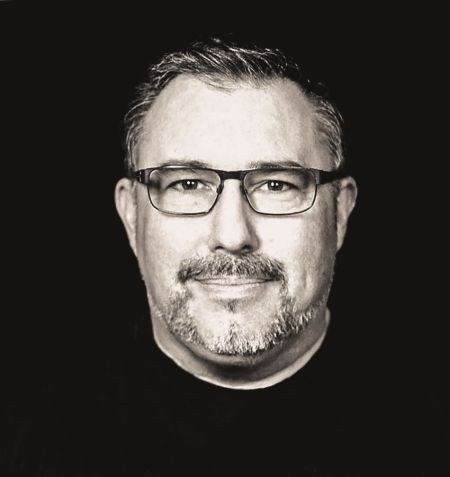
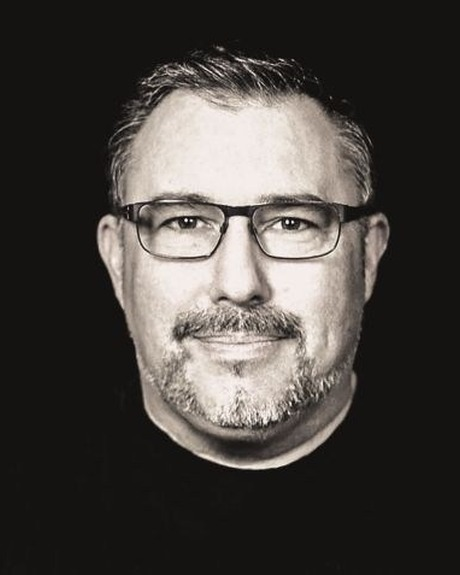
mise à jours

Changed region(s): [[0.1867, 0.0587, 0.8711, 0.8218]]

diff --git a/equipe.html b/equipe.html
@@ -8,7 +8,7 @@
 <link href="https://fonts.googleapis.com" rel="preconnect"/>
 <link crossorigin="" href="https://fonts.gstatic.com" rel="preconnect"/>
 <link href="https://fonts.googleapis.com/css2?family=Cormorant+Garamond:ital,wght@0,500;0,600;1,500&amp;family=Outfit:wght@300;400;500;600&amp;display=swap" rel="stylesheet"/>
-<link href="css/style.css?v=37" rel="stylesheet"/>
+<link href="css/style.css?v=37-equipe" rel="stylesheet"/>
 <meta content="Un staff engagé au service des organisations, des profils atypiques et de la qualité des accompagnements." name="description"/><meta content="index,follow,max-image-preview:large,max-snippet:-1,max-video-preview:-1" name="robots"/>
 <!-- V22 social metadata -->
 <link href="favicon.ico" rel="icon" sizes="any"/>
@@ -40,7 +40,21 @@
 <meta content="https://www.hpitalents.com/assets/social/og-hpitalents.jpg" name="twitter:image"/>
 <meta content="HPI Talents - Révéler et accompagner les potentiels des adultes atypiques et hors normes." name="twitter:image:alt"/>
 <!-- /V22 social metadata -->
-<script type="application/ld+json">{"@context":"https://schema.org","@type":["Organization","ProfessionalService"],"@id":"https://www.hpitalents.com/#organization","name":"HPI Talents","alternateName":"HPI Talents by AFM Développement","url":"https://www.hpitalents.com/","logo":"https://www.hpitalents.com/assets/conferences/logo-hpi-talents.png","email":"contact@hpitalents.com","address":{"@type":"PostalAddress","streetAddress":"115 Avenue Jean Jaurès","postalCode":"33600","addressLocality":"Pessac","addressCountry":"FR"},"foundingDate":"2005","sameAs":["https://www.facebook.com/hpitalents/","https://www.youtube.com/@fabricemicheau","https://www.linkedin.com/company/hpitalents","https://www.instagram.com/fabricemicheau/","https://www.tiktok.com/@fabricemicheau"]}</script><script type="application/ld+json">{"@context":"https://schema.org","@type":"WebSite","@id":"https://www.hpitalents.com/#website","url":"https://www.hpitalents.com/","name":"HPI Talents","publisher":{"@id":"https://www.hpitalents.com/#organization"},"inLanguage":"fr-FR"}</script><script type="application/ld+json">{"@context":"https://schema.org","@type":"WebPage","@id":"https://www.hpitalents.com/equipe.html#webpage","url":"https://www.hpitalents.com/equipe.html","name":"Équipe HPI Talents | Experts douance et transformation","description":"Un staff engagé au service des organisations, des profils atypiques et de la qualité des accompagnements.","isPartOf":{"@id":"https://www.hpitalents.com/#website"},"about":{"@id":"https://www.hpitalents.com/#organization"},"inLanguage":"fr-FR"}</script><script type="application/ld+json">{"@context":"https://schema.org","@type":"BreadcrumbList","itemListElement":[{"@type":"ListItem","position":1,"name":"Accueil","item":"https://www.hpitalents.com/"},{"@type":"ListItem","position":2,"name":"À propos","item":"https://www.hpitalents.com/a-propos.html"},{"@type":"ListItem","position":3,"name":"L'équipe HPI Talents","item":"https://www.hpitalents.com/equipe.html"}]}</script></head>
+<script type="application/ld+json">{"@context":"https://schema.org","@type":["Organization","ProfessionalService"],"@id":"https://www.hpitalents.com/#organization","name":"HPI Talents","alternateName":"HPI Talents by AFM Développement","url":"https://www.hpitalents.com/","logo":"https://www.hpitalents.com/assets/conferences/logo-hpi-talents.png","email":"contact@hpitalents.com","address":{"@type":"PostalAddress","streetAddress":"115 Avenue Jean Jaurès","postalCode":"33600","addressLocality":"Pessac","addressCountry":"FR"},"foundingDate":"2005","sameAs":["https://www.facebook.com/hpitalents/","https://www.youtube.com/@fabricemicheau","https://www.linkedin.com/company/hpitalents","https://www.instagram.com/fabricemicheau/","https://www.tiktok.com/@fabricemicheau"]}</script><script type="application/ld+json">{"@context":"https://schema.org","@type":"WebSite","@id":"https://www.hpitalents.com/#website","url":"https://www.hpitalents.com/","name":"HPI Talents","publisher":{"@id":"https://www.hpitalents.com/#organization"},"inLanguage":"fr-FR"}</script><script type="application/ld+json">{"@context":"https://schema.org","@type":"WebPage","@id":"https://www.hpitalents.com/equipe.html#webpage","url":"https://www.hpitalents.com/equipe.html","name":"Équipe HPI Talents | Experts douance et transformation","description":"Un staff engagé au service des organisations, des profils atypiques et de la qualité des accompagnements.","isPartOf":{"@id":"https://www.hpitalents.com/#website"},"about":{"@id":"https://www.hpitalents.com/#organization"},"inLanguage":"fr-FR"}</script><script type="application/ld+json">{"@context":"https://schema.org","@type":"BreadcrumbList","itemListElement":[{"@type":"ListItem","position":1,"name":"Accueil","item":"https://www.hpitalents.com/"},{"@type":"ListItem","position":2,"name":"À propos","item":"https://www.hpitalents.com/a-propos.html"},{"@type":"ListItem","position":3,"name":"L'équipe HPI Talents","item":"https://www.hpitalents.com/equipe.html"}]}</script>
+<style id="team-page-lock-v37">
+/* Page Equipe : modèle Fabrice verrouillé pour les 6 profils */
+.team-page{padding-top:34px!important}
+.team-page>.intro-wide{display:block!important;max-width:980px!important;margin:0 0 30px!important}
+.team-grid{display:grid!important;grid-template-columns:1fr!important;gap:24px!important;margin-top:26px!important}
+.team-card{display:grid!important;grid-template-columns:230px minmax(0,1fr)!important;gap:32px!important;align-items:center!important;min-height:344px!important;padding:28px!important;border:1px solid var(--line)!important;border-radius:22px!important;background:linear-gradient(145deg,#fffdfa,#f6efe6)!important;position:relative!important;overflow:hidden!important}
+.team-photo{position:relative!important;width:230px!important;height:288px!important;min-width:230px!important;min-height:288px!important;max-width:230px!important;max-height:288px!important;overflow:visible!important}
+.team-photo img{position:relative!important;z-index:1!important;display:block!important;width:230px!important;height:288px!important;min-width:230px!important;min-height:288px!important;max-width:230px!important;max-height:288px!important;aspect-ratio:4/5!important;object-fit:cover!important;object-position:center top!important;border-radius:18px!important}
+.team-copy{min-width:0!important;align-self:center!important}
+.team-copy h2{margin:5px 0 12px!important;font-size:2rem!important}
+.team-copy ul{margin:0 0 12px!important;padding-left:18px!important;line-height:1.65!important}
+@media(max-width:760px){.team-card{grid-template-columns:1fr!important}.team-photo{margin:auto!important}.team-copy{text-align:left!important}}
+</style>
+</head>
 <body>
 <header class="site"><div class="wrap nav"><a class="brand" href="index.html"><span aria-hidden="true" class="brand-mark"></span><span>HPI Talents<small>by AFM Développement</small></span></a><nav class="nav-links" id="main-navigation"><div class="nav-group nav-current"><a class="nav-top" href="a-propos.html">Qui sommes-nous <span class="chev">⌄</span></a><div class="dropdown"><a href="a-propos.html">À propos</a><a href="philosophie-methodes.html">Philosophie et méthodes</a><a href="mission-valeurs.html">Mission et valeurs</a><a class="active-sub" href="equipe.html">L'équipe HPI Talents</a><a href="fabrice-micheau.html">Fabrice Micheau</a><a href="references.html">Références</a><a href="livres.html">Livres</a></div></div><div class="nav-group"><a class="nav-top" href="comprendre.html">Comprendre le HPI <span class="chev">⌄</span></a><div class="dropdown"><a href="fonctionnement-hpi.html">Fonctionnement du HPI</a><a href="thpi-tthpi.html">Identifier et accompagner les profils THPI et TTHPI</a><a href="hpi-entreprise.html">HPI, un atout en entreprise</a><a href="capacites-exceptionnelles.html">HPI/HQI, capacités exceptionnelles</a><a href="conferences-hpi.html">Conférences HPI</a><a href="gifted-asia-tour.html">Gifted Asia Tour 2018</a><a href="gardiens-transition.html">Les Gardiens de la Transition</a></div></div><div class="nav-group"><a class="nav-top" href="formations.html">Nos formations <span class="chev">⌄</span></a><div class="dropdown"><a href="formations.html">Nos formations</a><a href="approche-formations.html">Approche spécifique HPI Talents</a><a href="formations-profils.html">Formations pour profils hors normes</a><a href="formations-professionnels.html">Formations pour professionnels</a><a href="master-pro-gifted.html">MASTER PRO GIFTED</a><a href="conferences-ateliers.html">Conférences et ateliers</a></div></div><div class="nav-group"><a class="nav-top" href="entreprises.html">Pour les entreprises <span class="chev">⌄</span></a><div class="dropdown"><a href="entreprises.html">Services</a><a href="coaching-individuel.html">Coaching individuel</a><a href="consulting-entreprise.html">Consulting entreprise</a><a href="transformation-complexe.html">Transformation complexe</a><a href="coaching-dirigeants.html">Coaching dirigeants et managers atypiques</a><a href="interventions-hpi-thpi.html">Interventions HPI/THPI</a><a href="conferences-ateliers.html">Conférences et ateliers</a></div></div><div class="nav-group"><a class="nav-top" href="reseau.html">Le réseau <span class="chev">⌄</span></a><div class="dropdown"><a href="reseau.html">Réseaux</a><a href="reseau-international.html">Réseau international COLORIES</a><a href="master-pro-gifted.html">Certifiés MASTER PRO GIFTED</a></div></div><div class="nav-group"><a class="nav-top" href="bilan.html">Bilan <span class="chev">⌄</span></a><div class="dropdown"><a href="bilan.html">Bilans HPI/THPI</a><a href="bilan-personnalise.html">Bilan HPI personnalisé</a><a href="bilan-competences.html">Bilan de compétences</a><a href="efficacite-professionnelle.html">Efficacité professionnelle</a></div></div><a class="nav-top nav-simple" href="actualites.html">Actualités</a><a class="nav-top nav-simple" href="boutique.html">Boutique</a><a class="nav-top nav-simple" href="contact.html">Contact</a></nav><button aria-controls="main-navigation" aria-expanded="false" aria-label="Ouvrir le menu" class="burger"><span></span><span></span><span></span></button></div></header>
 <main>
@@ -50,12 +64,12 @@
 <p>HPI Talents s'appuie sur une équipe qui réunit direction, gestion, qualité formation, animation des réseaux, production vidéo et communication digitale.</p>
 </div>
 <div class="team-grid">
-<article class="team-card"><div class="team-photo"><img alt="Fabrice Micheau" decoding="async" height="300" loading="lazy" src="assets/team/fabrice-micheau.jpg" width="300"/></div><div class="team-copy"><p class="kicker">Fondateur &amp; directeur</p><h2>Fabrice Micheau</h2><ul><li>Enseignant et chercheur</li><li>Consultant international</li><li>Expert coaching et médiation</li><li>Global coaching and consulting</li><li>Accompagnement des transformations d'organisations</li></ul><a href="fabrice-micheau.html">Découvrir son parcours</a></div></article>
-<article class="team-card"><div class="team-photo"><img alt="Hélène Faye" decoding="async" height="1200" loading="lazy" src="assets/team/helene-faye.jpg" width="900"/></div><div class="team-copy"><p class="kicker">Comptabilité &amp; gestion</p><h2>Hélène Faye</h2><ul><li>Comptabilité, finance et interface expert-comptable</li><li>Gestion des dossiers</li><li>Coordination logistique</li></ul></div></article>
-<article class="team-card"><div class="team-photo"><img alt="Aurélie Fonta" decoding="async" height="300" loading="lazy" src="assets/team/aurelie-fonta.jpg" width="257"/></div><div class="team-copy"><p class="kicker">Qualité formation</p><h2>Aurélie Fonta</h2><ul><li>Gestion administrative et contractuelle des formations</li><li>Suivi pédagogique et certification Qualiopi</li><li>Gestion des plateformes digitales et veille documentaire</li><li>Référente handicap</li><li>Partenaire certifiée Digiforma et experte qualité formation</li></ul><a href="https://elanceformation.fr/" rel="noopener" target="_blank">Elance Formation</a></div></article>
-<article class="team-card"><div class="team-photo"><img alt="Mael Rohan" decoding="async" height="200" loading="lazy" src="assets/team/mael-rohan.jpg" width="180"/></div><div class="team-copy"><p class="kicker">Réseaux</p><h2>Mael Rohan</h2><ul><li>Suivi technique des réseaux Certifiés Gifted et Coloriés</li><li>Suivi des membres</li><li>Actualisation des fichiers</li></ul></div></article>
-<article class="team-card"><div class="team-photo"><img alt="Gaétan Lecire" decoding="async" height="477" loading="lazy" src="assets/team/gaetan-lecire.jpg" width="450"/></div><div class="team-copy"><p class="kicker">Vidéo</p><h2>Gaétan Lecire</h2><ul><li>Réalisation et assistance technique vidéo</li><li>Programmes Carte Blanche et Ping Pong Live</li><li>Montage et habillage des vidéos et podcasts</li></ul></div></article>
-<article class="team-card"><div class="team-photo"><img alt="Flavia Navoly" decoding="async" height="200" loading="lazy" src="assets/team/flavia-navoly.jpg" width="200"/></div><div class="team-copy"><p class="kicker">Réseaux sociaux</p><h2>Flavia Navoly</h2><ul><li>Community management</li><li>Animation et suivi des comptes</li><li>Co-réalisation des publications</li></ul><a href="mailto:flavianavoly.alba@gmail.com">flavianavoly.alba@gmail.com</a></div></article>
+<article class="team-card"><div class="team-photo"><img alt="Fabrice Micheau" decoding="async" height="575" loading="lazy" src="assets/team/fabrice-micheau.jpg" width="460"/></div><div class="team-copy"><p class="kicker">Fondateur &amp; directeur</p><h2>Fabrice Micheau</h2><ul><li>Enseignant et chercheur</li><li>Consultant international</li><li>Expert coaching et médiation</li><li>Global coaching and consulting</li><li>Accompagnement des transformations d'organisations</li></ul><a href="fabrice-micheau.html">Découvrir son parcours</a></div></article>
+<article class="team-card"><div class="team-photo"><img alt="Hélène Faye" decoding="async" height="575" loading="lazy" src="assets/team/helene-faye.jpg" width="460"/></div><div class="team-copy"><p class="kicker">Comptabilité &amp; gestion</p><h2>Hélène Faye</h2><ul><li>Comptabilité, finance et interface expert-comptable</li><li>Gestion des dossiers</li><li>Coordination logistique</li></ul></div></article>
+<article class="team-card"><div class="team-photo"><img alt="Aurélie Fonta" decoding="async" height="575" loading="lazy" src="assets/team/aurelie-fonta.jpg" width="460"/></div><div class="team-copy"><p class="kicker">Qualité formation</p><h2>Aurélie Fonta</h2><ul><li>Gestion administrative et contractuelle des formations</li><li>Suivi pédagogique et certification Qualiopi</li><li>Gestion des plateformes digitales et veille documentaire</li><li>Référente handicap</li><li>Partenaire certifiée Digiforma et experte qualité formation</li></ul><a href="https://elanceformation.fr/" rel="noopener" target="_blank">Elance Formation</a></div></article>
+<article class="team-card"><div class="team-photo"><img alt="Mael Rohan" decoding="async" height="575" loading="lazy" src="assets/team/mael-rohan.jpg" width="460"/></div><div class="team-copy"><p class="kicker">Réseaux</p><h2>Mael Rohan</h2><ul><li>Suivi technique des réseaux Certifiés Gifted et Coloriés</li><li>Suivi des membres</li><li>Actualisation des fichiers</li></ul></div></article>
+<article class="team-card"><div class="team-photo"><img alt="Gaétan Lecire" decoding="async" height="575" loading="lazy" src="assets/team/gaetan-lecire.jpg" width="460"/></div><div class="team-copy"><p class="kicker">Vidéo</p><h2>Gaétan Lecire</h2><ul><li>Réalisation et assistance technique vidéo</li><li>Programmes Carte Blanche et Ping Pong Live</li><li>Montage et habillage des vidéos et podcasts</li></ul></div></article>
+<article class="team-card"><div class="team-photo"><img alt="Flavia Navoly" decoding="async" height="575" loading="lazy" src="assets/team/flavia-navoly.jpg" width="460"/></div><div class="team-copy"><p class="kicker">Réseaux sociaux</p><h2>Flavia Navoly</h2><ul><li>Community management</li><li>Animation et suivi des comptes</li><li>Co-réalisation des publications</li></ul><a href="mailto:flavianavoly.alba@gmail.com">flavianavoly.alba@gmail.com</a></div></article>
 </div>
 </section>
 </main>
